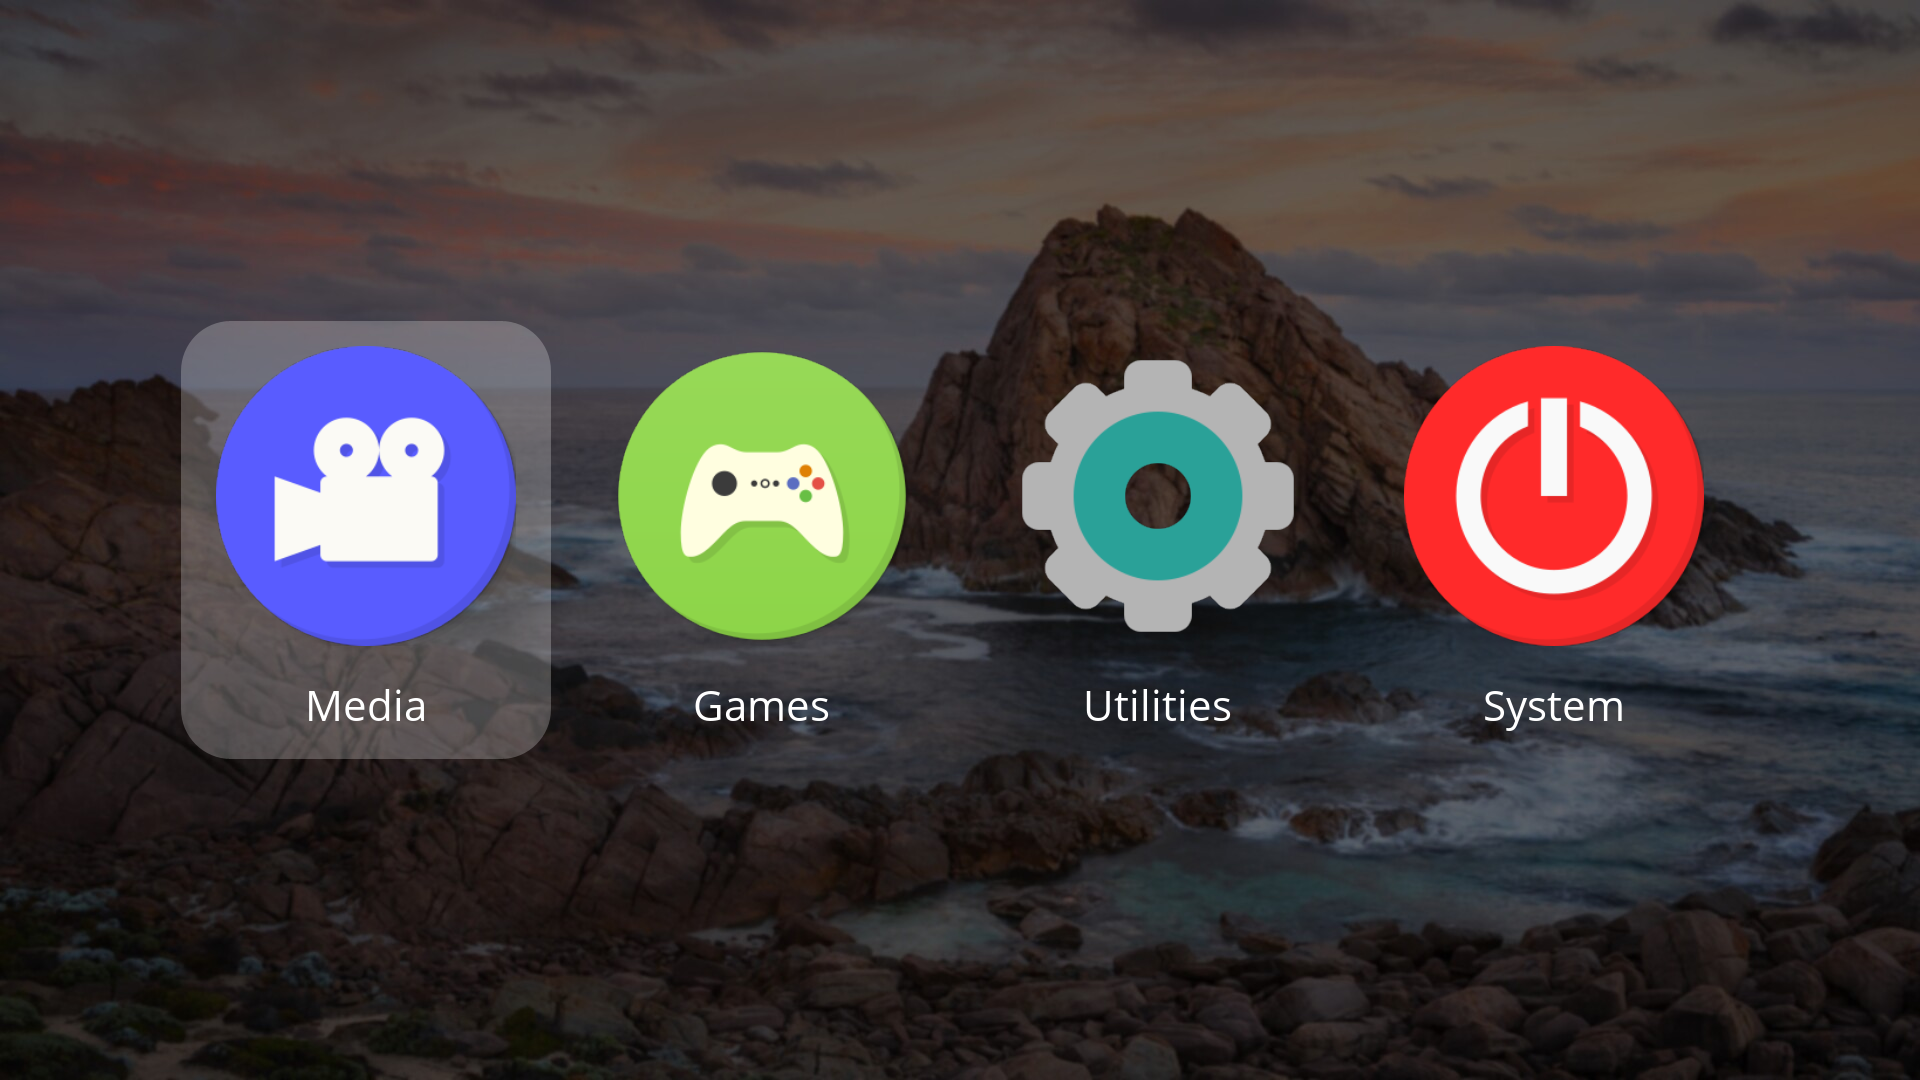
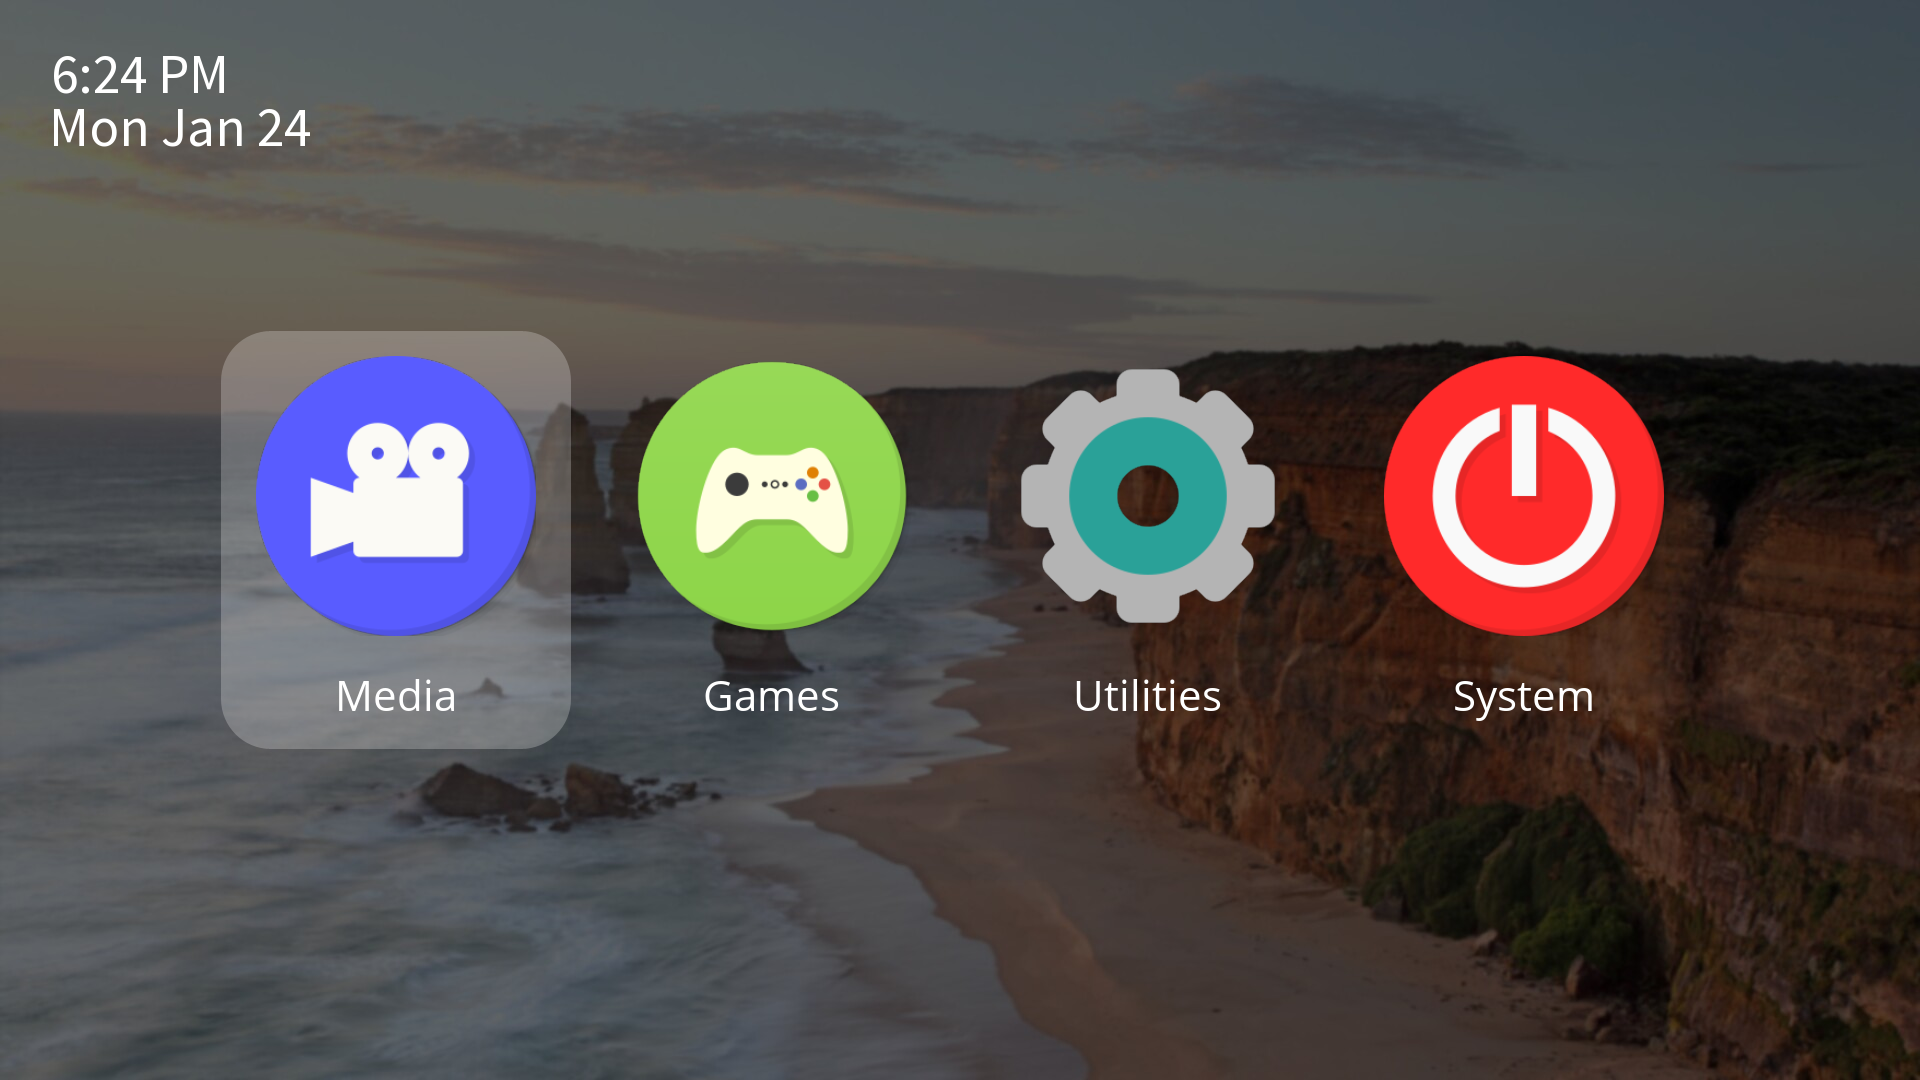
Updated documentation

diff --git a/extra/docs/configuration.md b/extra/docs/configuration.md
@@ -10,19 +10,23 @@
       <a href="#settings">Settings</a>
     </li>
     <li>
-      <a href="#screensaver">Screensaver</a>
-    </li>
-    <li>
       <a href="#creating-menus">Creating Menus</a>
       <ul>
         <li><a href="#special-commands">Special Commands</a></li>
         <li><a href="#desktop-files-linux-only">Desktop Files (Linux Only)</a></li>
       </ul>
-     <li>
+    <li>
+      <a href="#clock">Clock</a>
+    </li>
+    <li>
+      <a href="#screensaver">Screensaver</a>
+    </li>
+    <li>
       <a href="#hotkeys">Hotkeys</a>
     </li>
+    <li>
+      <a href="#gamepad-controls">Gamepad Controls</a>
     </li>
-    <li><a href="#gamepad-controls">Gamepad Controls</a></li>
   </ol>
 </details>
  
@@ -134,7 +138,7 @@ Every config file must have a section titled "Settings". Within this section, th
 </details>
 
 #### DefaultMenu
-This is the title of the main menu that shows when Flex Launcher is started. The value *must* match the name of one of your menu sections, or there will be an error and Flex Launcher will refuse to start. See the creating menus section for more information
+This is the title of the main menu that shows when Flex Launcher is started. The value *must* match the name of one of your menu sections, or there will be an error and Flex Launcher will refuse to start. See the [Creating Menus](#creating-menus) section for more information.
 
 #### MaxButtons
 The maximum number of buttons that can be displayed on the screen. If your menu has more entries than this value, they will be split into multiple pages. A value of 3-5 is sensible for a typical TV size and viewing distance.
@@ -159,7 +163,7 @@ When ```BackgroundMode``` is set to "Image", this setting defines the image to b
 When ```BackgroundMode``` is set to "Slideshow", this setting defines the directory (folder) which contains the images to display in the background. The value should be a path to a directory on your filesystem. The number of images that may be scanned from the directory is limited to 250.
 
 #### SlideshowImageDuration
-When ```BackgroundMode``` is set to "Slideshow", this setting defines the amount of time in seconds to display each image. Must be an integer value
+When ```BackgroundMode``` is set to "Slideshow", this setting defines the amount of time in seconds to display each image. Must be an integer value.
 
 Default: 30
 
@@ -174,7 +178,7 @@ The width and height of icons on the screen in pixels. If an icon is not the sam
 Default: 256
 
 #### IconSpacing
-Distance between the menu entry icons, in pixels or percent of the screen width
+Distance between the menu entry icons, in pixels or percent of the screen width.
 
 Default: 5%
 
@@ -200,9 +204,9 @@ Default: 100%
 
 #### TitleOversizeMode
 Defines the behavior when the width of a menu entry title exceeds the width of its icon (which is defined in ```IconSize```). Possible values: "Truncate", "Shrink", and "None"
-- Truncate: Truncates the title at the maximum width and adds "..." to the end
-- Shrink: Shrinks oversized titles to a smaller font size than ```TitleFontSize``` so that the entire title fits within the maximum width
-- None: No action is taken to limit the width of titles. Overlaps with other titles may occur, and it is the user's responsibility to manually handle any such case
+- Truncate: Truncates the title at the maximum width and adds "..." to the end.
+- Shrink: Shrinks oversized titles to a smaller font size than ```TitleFontSize``` so that the entire title fits within the maximum width.
+- None: No action is taken to limit the width of titles. Overlaps with other titles may occur, and it is the user's responsibility to manually handle any such case.
 
 Default: Truncate
 
@@ -258,9 +262,9 @@ Default: 100%
 
 #### OnLaunch
 Defines the action that Flex Launcher will take upon the launch of an application. Possible values: "Hide", "None", and "Blank"
-- Hide: Flex Launcher will hide its window while the application is running, and then show itself again after the application has closed. This avoids window focus conflicts between the launcher and the application, but will cause the desktop to be briefly visible when an application is launched
+- Hide: Flex Launcher will hide its window while the application is running, and then show itself again after the application has closed. This avoids window focus conflicts between the launcher and the application, but will cause the desktop to be briefly visible when an application is launched.
 - None: Flex Launcher will maintain its window, and the launched application will have to draw itself over Flex Launcher. The desktop will never be visible, but this mode could cause window focusing conflicts depending on your configuration. This setting should only be used if all your applications launch in a fullscreen mode.
-- Blank: Same as "None", except Flex Launcher will change to a blank, black screen
+- Blank: Same as "None", except Flex Launcher will change to a blank, black screen.
 
 Default: Hide
 
@@ -268,6 +272,135 @@ Default: Hide
 Defines whether Flex Launcher will remember the previous entry position when going back to a previous menu. If set to true, the highlight will be reset to the first entry in the menu when going back. This setting is a boolean "true" or "false".
 
 Default: false
+
+## Creating Menus
+At least one menu must be defined in the configuration file, and the title must match the ```DefaultMenu``` setting value. The title of the menu is the section name. Any title may be used that is not reserved for another section, such as "Settings", and "Gamepad". The entries of the menu are implemented as key=value pairs. The name of the key will be ignored by the program, and is therefore arbtrary. However, it is recommended to pick something intutitive such as Entry1, Entry2, Entry3, etc. The entry information is contained in the value.
+
+Each entry value contains 3 parts of information in order: the title, the icon image path, and the command to run when the button is clicked. These are delimited by semicolons:
+```
+Entry=title;icon_path;command
+```
+The command is typically one of the following:
+1. The path to the program executable that you want to launch 
+2. Windows: the path to a program shortcut (.lnk file)
+3. Linux: the path to a [.desktop file](desktop-files-linux-only)
+4. A [special command](#special-commands)
+5. The path to an executable script, in the case that you want to perform multiple actions upon program launch.
+
+ A simple example menu titled ```Media``` is shown below:
+```
+[Media]
+Entry1=Kodi;C:\Pictures\Icons\kodi.png;"C:\Program Shortcuts\kodi.lnk"
+Entry2=Netflix;C:\Pictures\Icons\netflix.png;"C:\Program Shortcuts\netflix.lnk"
+Entry3=Plex;C:\Pictures\Icons\plex.png;"C:\Program Shortcuts\plex.lnk"
+Entry4=Back;C:\Pictures\Icons\back.png;:back
+```
+
+### Special Commands
+Special commands are commands that are internal to Flex Launcher and begin with a colon. The following is a list of special commands:
+
+#### :submenu
+Change to a different menu. Requires a menu title as an argument. For example, the command ```:submenu Games``` will change to the menu ```Games```. The argument must be a valid menu title that is defined elsewhere in the config file.
+
+#### :back
+Go back to the previous menu.
+
+#### :home
+Change to the menu defined in the ```DefaultMenu``` setting.
+
+#### :quit
+Quit Flex Launcher.
+
+#### :left
+Move the highlight cursor left.
+
+#### :right
+Move the highlight cursor right.
+
+#### :select
+Press enter on the current selection. This special command is only available as a gamepad command, it is forbidden for menu entries.
+
+#### :shutdown
+Shut down the computer.<sup>1</sup>
+
+#### :restart
+Restart the computer.<sup>1</sup>
+
+#### :sleep
+Put the computer to sleep.<sup>1</sup>
+
+<sup>1</sup> *Linux: Only works in systemd-based distros. Non-systemd distro users need to implement the command manually for their init system.*
+
+### Desktop Files (Linux Only)
+If the application you want to launch was installed via your distro's package manager, a .desktop file was most likely provided. The command to launch a Linux application can simply be the path to its .desktop file, and Flex Launcher will run the Exec command that the developers have specified in the file. Desktop files are located in /usr/share/applications.
+
+#### Desktop Actions
+Some .desktop files contain "Actions", which affect how the program is launched. An action may be specified by delimiting it from the path to the .desktop file with a semicolon. For example, Steam has a mode called "Big Picture Mode", which provides an interface similar to a game console and is ideal for a living room PC. The action in the .desktop file is called "BigPicture". A sample menu entry to launch Steam in Big Picture mode is shown below:
+```
+Entry1=Steam;/path/to/steamicon.png;/usr/share/applications/steam.desktop;BigPicture
+```
+
+## Clock
+Flex Launcher contains a clock widget, which displays the current time, and, optionally, the current date. The following settings may be used to control the behavior of the clock.
+
+#### Enabled
+Defines whether or not the clock is enabled. This setting is a boolean "true" or "false".
+
+Default: false
+
+#### ShowDate
+Defines whether or not the current date should be shown in addition to the current time. This setting is a boolean "true" or "false".
+
+Default: false
+
+#### Alignment
+Defines which side of the screen the clock text should align to. Possible values: "Left" and "Right"
+
+Default: Left
+
+#### Font
+Defines the font to use for the clock text. The value should be the path to a TrueType (TTF) font file.
+
+Default: SourceSansPro
+
+#### FontSize
+Defines the font size of the clock text
+
+Default: 50
+
+#### Margin
+Defines the distance of the clock text from the top and side of the screen, in pixels or percent of the screen height.
+
+Default: 5%
+
+#### Color
+Defines the color of the clock text.
+
+Default: FFFFFF (White)
+
+#### Opacity
+Defines the opacity of the clock text. Must be a percent value.
+
+Default: 100%
+
+#### TimeFormat
+Defines the format of the current time. Possible values: "24hr", "12hr", and "Auto"
+- 24hr: The clock will be a 24 hour format.
+- 12hr: The clock will be a 12 hour format, including AM/PM designation in your locale.
+- Auto: Automatically determine the time format based on your system locale.
+
+Default: Auto
+
+#### DateFormat
+Defines the order of the month and day in the date. Possible values: "Little", "Big", "Auto"
+- Little: The day will come before the month.
+- Big: The month will come before the day.
+- Auto: Automatically determine the date format based on your system locale.
+
+#### IncludeWeekday
+Defines whether the date format should include the abbreviated weekday in your system locale. This setting is a boolean "true" or "false"
+
+Default: true
 
 ## Screensaver
 Flex Launcher contains a screensaver feature, which will dim the screen after the input has been idle for the specified amount of time. Here are the settings that control the behavior of the screensaver
@@ -291,64 +424,6 @@ Default: 70%
 When ```BackgroundMode``` is set to "Slideshow", this setting defines whether or not the slideshow should be paused while the screensaver is active. This setting is a boolean "true" or "false".
 
 Default: true
-
-
-## Creating Menus
-At least one menu must be defined in the configuration file, and the title must match the ```DefaultMenu``` setting value. The title of the menu is the section name. Any title may be used that is not reserved for another section, such as "Settings", and "Gamepad". The entries of the menu are implemented as key=value pairs. The name of the key will be ignored by the program, and is therefore arbtrary. However, it is recommended to pick something intutitive such as Entry1, Entry2, Entry3, etc. The entry information is contained in the value.
-
-Each entry value contains 3 parts of information in order: the title, the icon image path, and the command to run when the button is clicked. These are delimited by semicolons:
-```
-Entry=title;icon_path;command
-```
-The command is typically the path to the program executable that you want to launch, or a [special command](#special-commands). Windows users may also use a path to a program shortcut (.lnk file). A simple example menu titled ```Media``` is shown below:
-```
-[Media]
-Entry1=Kodi;C:\Pictures\Icons\kodi.png;C:\Program Shortcuts\kodi.lnk
-Entry2=Netflix;C:\Pictures\Icons\netflix.png;C:\Program Shortcuts\netflix.lnk
-Entry3=Plex;C:\Pictures\Icons\plex.png;C:\Program Shortcuts\plex.lnk
-```
-
-### Special Commands
-Special commands are commands that are internal to Flex Launcher and begin with a colon. Here is a list of special commands:
-
-#### :submenu
-Change to a different menu. Requires a menu title as an argument. For example, the command ```:submenu Games``` will change to the menu ```Games```. The argument be a valid menu title that is defined elsewhere in the config file.
-
-#### :back
-Go back to the previous menu.
-
-#### :home
-Change to the menu defined in the ```DefaultMenu``` setting.
-
-#### :quit
-Quit Flex Launcher.
-
-#### :left
-Move the highlight cursor left.
-
-#### :right
-Move the highlight cursor right.
-
-#### :select
-Press enter on the current selection. This special command is only available as a gamepad command, it is forbidden for menu entries.
-
-#### :shutdown
-Shut down the computer. For Linux: only works in systemd distros. Non-systemd distro users need to implement the command manually for their init system
-
-#### :restart
-Restart the computer. For Linux: only works in systemd distros. Non-systemd distro users need to implement the command manually for their init system
-
-#### :sleep
-Put the computer to sleep. For Linux: only works in systemd distros. Non-systemd distro users need to implement the command manually for their init system
-
-### Desktop Files (Linux Only)
-If the application you want to launch was installed via your distro's package manager, a .desktop file was most likely provided. The command to launch a Linux application can simply be the path to its .desktop file, and Flex Launcher will run the Exec command that the developers have specified in the file. Desktop files are located in /usr/share/applications.
-
-#### Desktop Actions
-Some .desktop files contain "Actions", which affect how the program is launched. An action may be specified by delimiting it from the path to the .desktop file with the pipe character |. For example, Steam has a mode called "Big Picture Mode", which provides an interface similar to a game console and is ideal for a living room PC. The action in the .desktop file is called "BigPicture". A sample menu entry to launch Steam in Big Picture mode is shown below:
-```
-Entry1=Steam;/path/to/steamicon.png;/usr/share/applications/steam.desktop|BigPicture
-```
 
 ## Hotkeys
 Flex Launch supports configurable hotkeys, which executes a command when a specified key is pressed. Each hotkey consists of a key=value pair, where the key is an arbitrary name, and the value contains the SDL keycode of the hotkey and the command to run when it is pressed, delimited by a semicolon:

diff --git a/extra/docs/compilation_guide.md b/extra/docs/compilation_guide.md
@@ -83,7 +83,7 @@ git clone https://github.com/microsoft/vcpkg
 ```
 Generate the Visual Studio project files:
 ```
-cmake -G "Visual Studio 16 2019" -DCMAKE_TOOLCHAIN_FILE=".\vcpkg\scripts\buildsystems\vcpkg.cmake" -DVCPKG_TARGET_TRIPLET="x64-windows-static" ..
+cmake -G "Visual Studio 17 2022" -DCMAKE_TOOLCHAIN_FILE=".\vcpkg\scripts\buildsystems\vcpkg.cmake" -DVCPKG_TARGET_TRIPLET="x64-windows-static" ..
 ```
 If you're using a different version of Visual Studio than above, then change the generator output.
 
